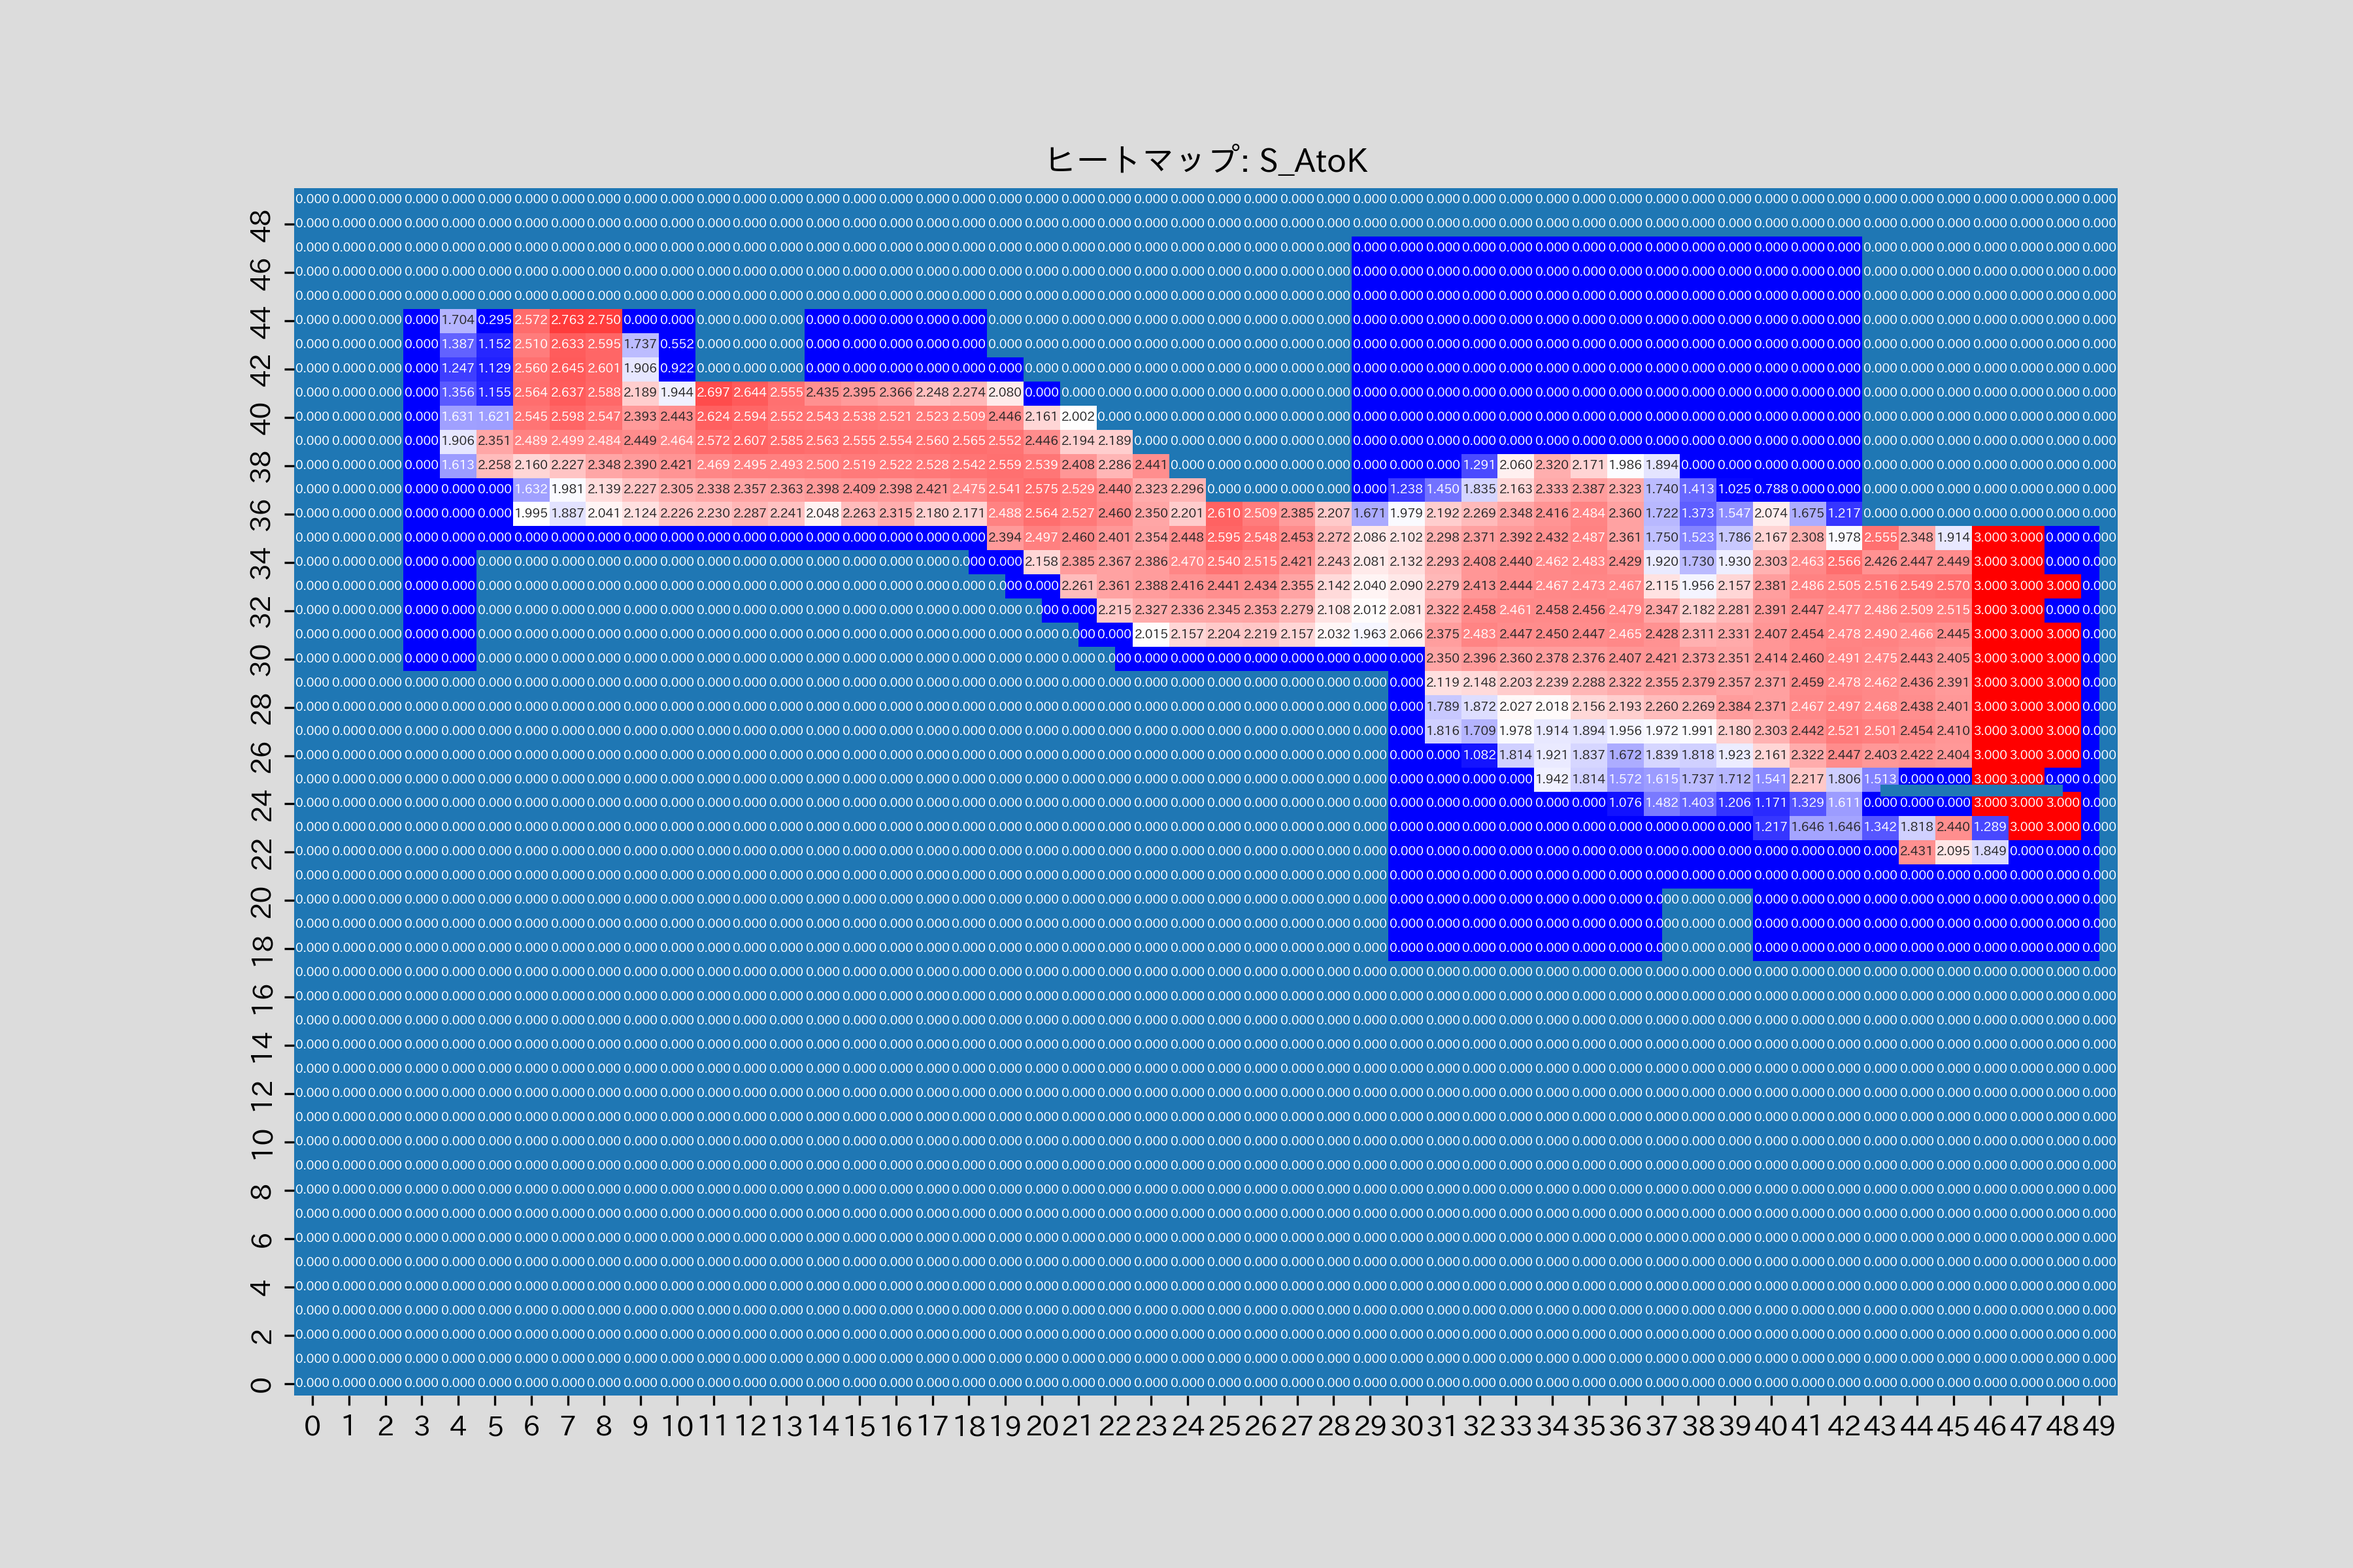
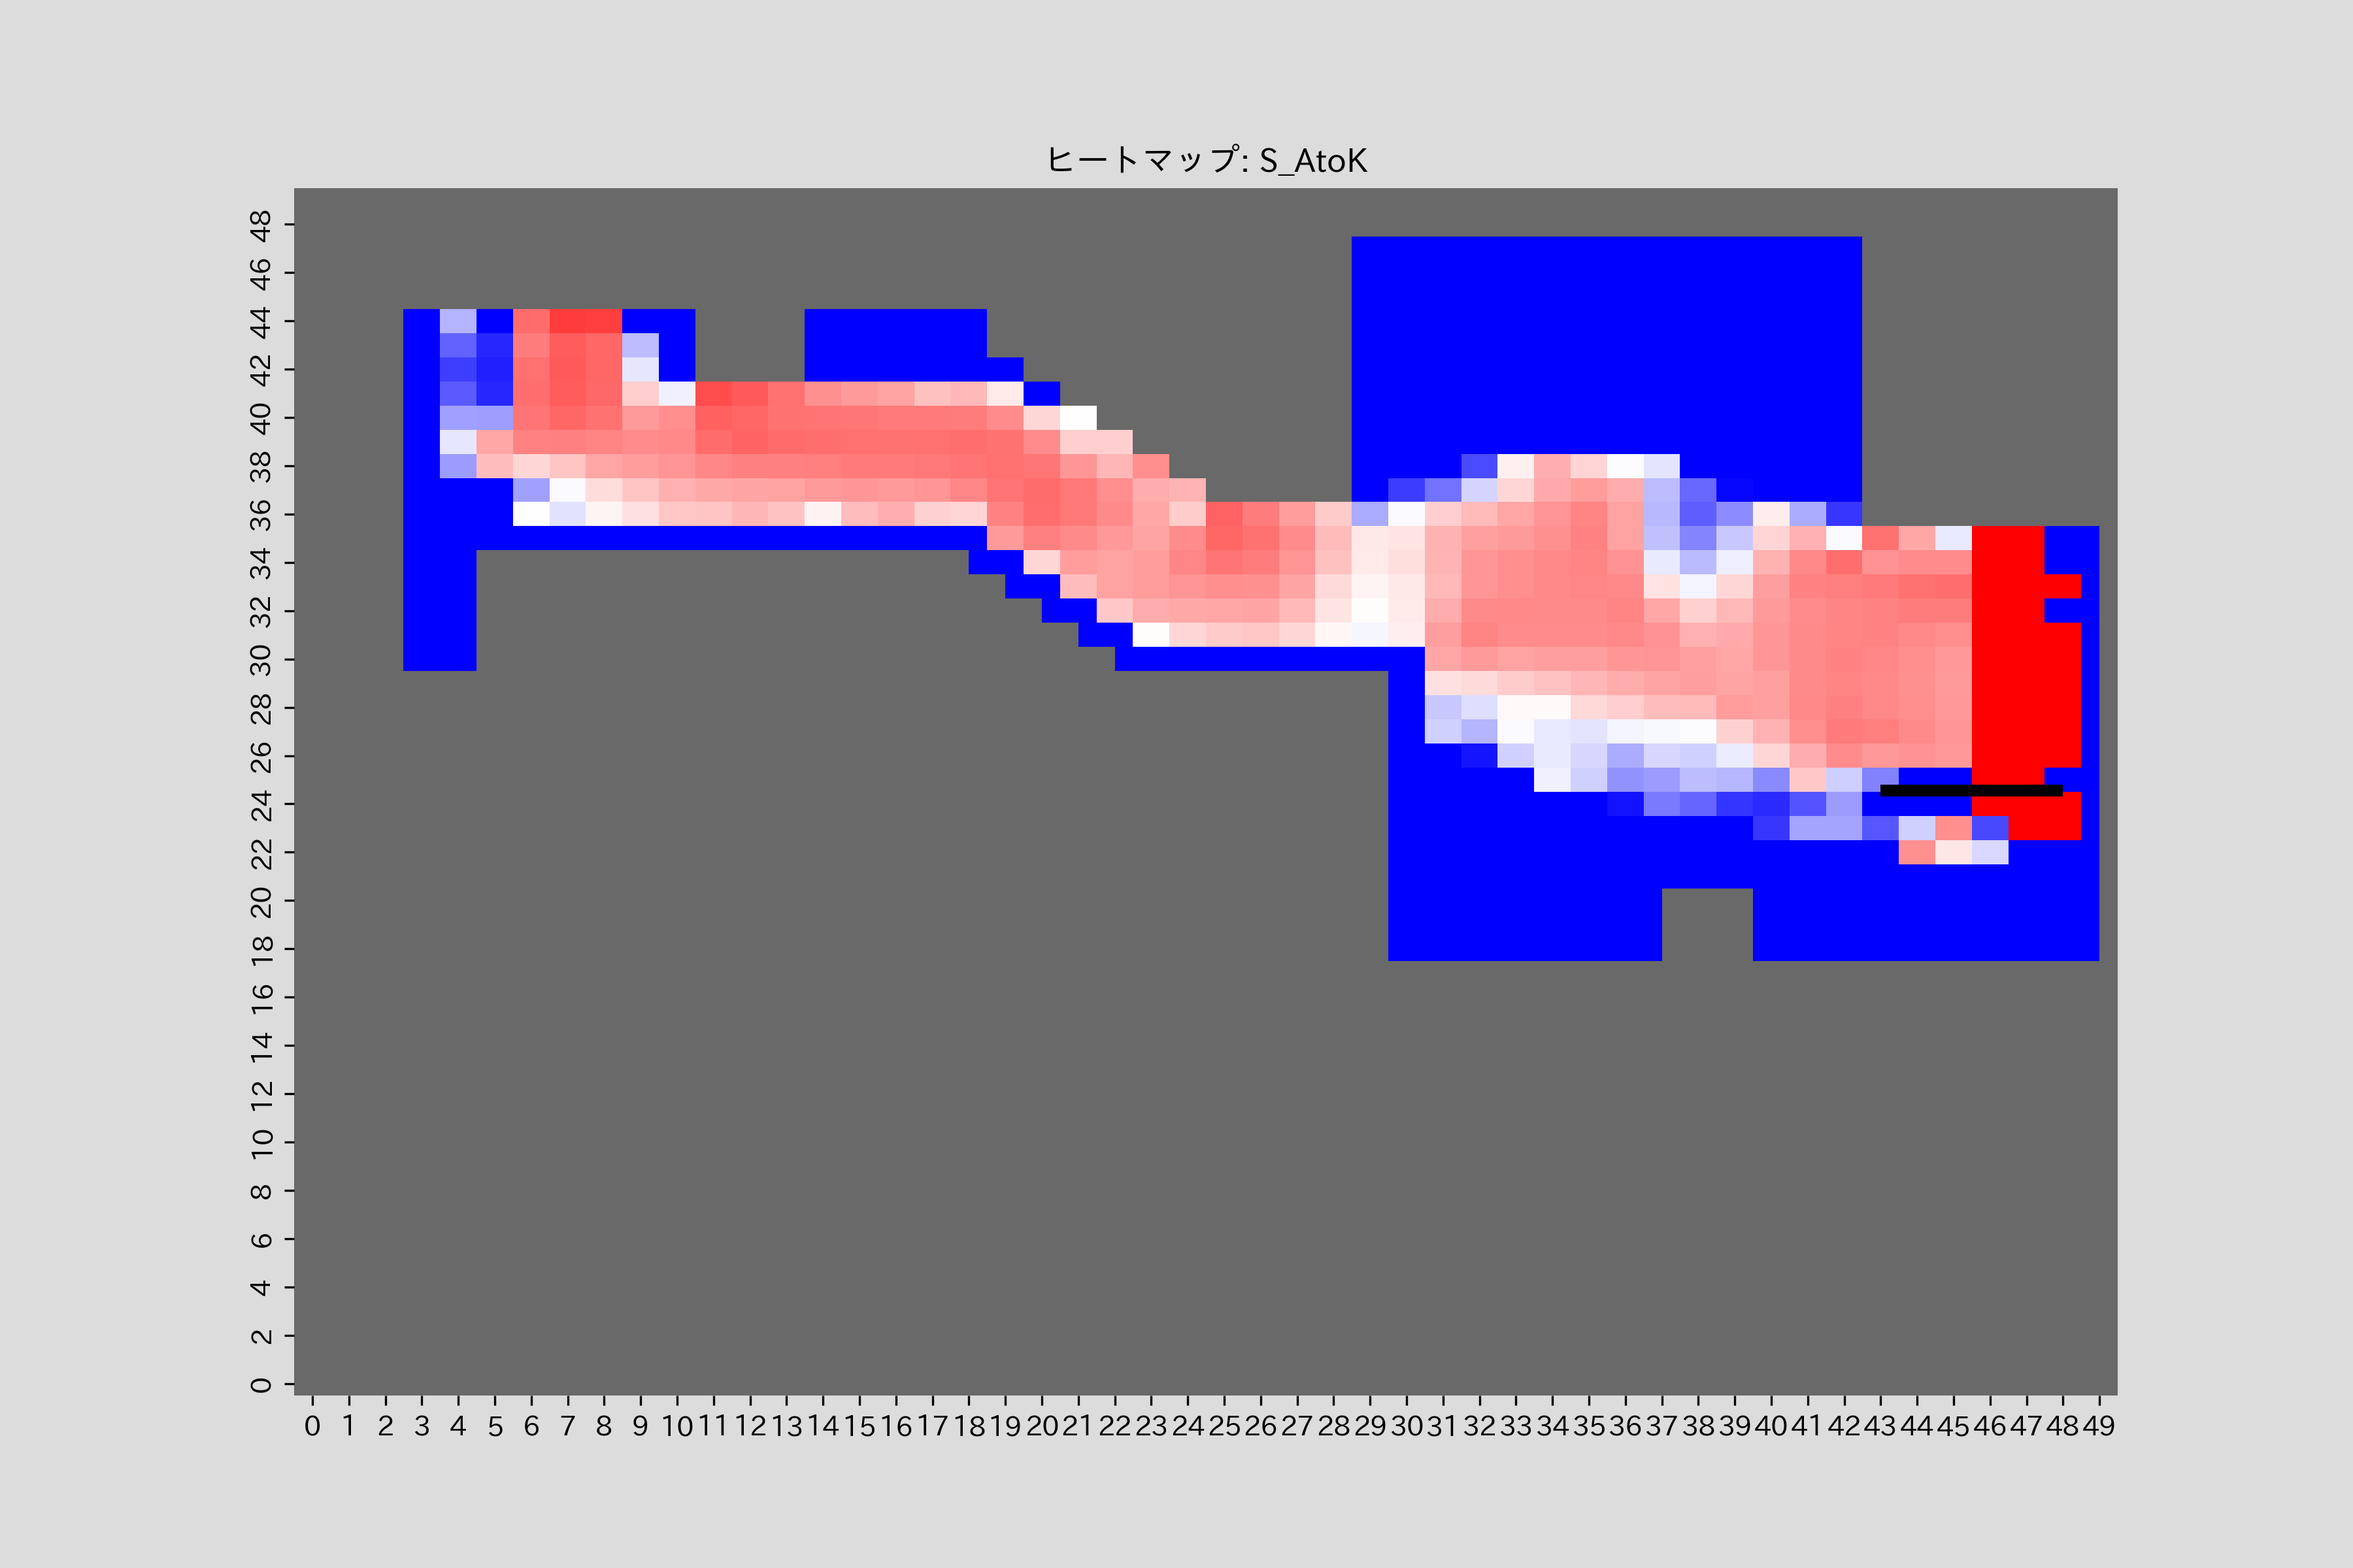
wall10の記録

diff --git a/gap_morning_latest.py b/gap_morning_latest.py
@@ -10,7 +10,7 @@ from result_morning_latest import *
 
 type = "result_morning"
 
-now_string = "wall07"
+now_string = "wall10"
 kabe = True
 
 s_now_string = "s_" + now_string
@@ -71,15 +71,15 @@ def HeatmappingNumber(now_agents_positions, walls, fig_name):
 
         if key in speeds:
             now = [[3.0 if float(element) >= 3.0 else float(element) for element in row] for row in now]
-            ax2 = sns.heatmap(now, cmap='bwr',cbar=False, annot=True, fmt='.3f', annot_kws={'fontsize':4.5}, vmax=3.00, vmin=1.0)
+            ax2 = sns.heatmap(now, cmap='bwr',cbar=False, annot=False, fmt='.3f', annot_kws={'fontsize':4.5}, vmax=3.00, vmin=1.0)
         else:
-            ax2 = sns.heatmap(now, cmap='Greens',cbar=False, annot=True, fmt='d', annot_kws={'fontsize':4.5})
+            ax2 = sns.heatmap(now, cmap='Greens',cbar=False, annot=False, fmt='d', annot_kws={'fontsize':4.5})
         for wall in walls:
-                ax2.add_patch(Rectangle((wall[0]/10, wall[1]/10), (wall[2]-wall[0])/10, (wall[3]-wall[1])/10))
+                ax2.add_patch(Rectangle((wall[0]/10, wall[1]/10), (wall[2]-wall[0])/10, (wall[3]-wall[1])/10, fc='#696969'))
         ax2.invert_yaxis()
 
         if kabe:
-            ax2.add_patch(Rectangle((addwalls[now_string][0]/10, addwalls[now_string][1]/10), (addwalls[now_string][2]-addwalls[now_string][0])/10, (addwalls[now_string][3]-addwalls[now_string][1])/10))
+            ax2.add_patch(Rectangle((addwalls[now_string][0]/10, addwalls[now_string][1]/10), (addwalls[now_string][2]-addwalls[now_string][0])/10, (addwalls[now_string][3]-addwalls[now_string][1])/10, fc='k'))
 
         # plt.show()
         fig2.savefig(f"{type}/{fig_name}/heatmap_{key}.png", dpi=300)
